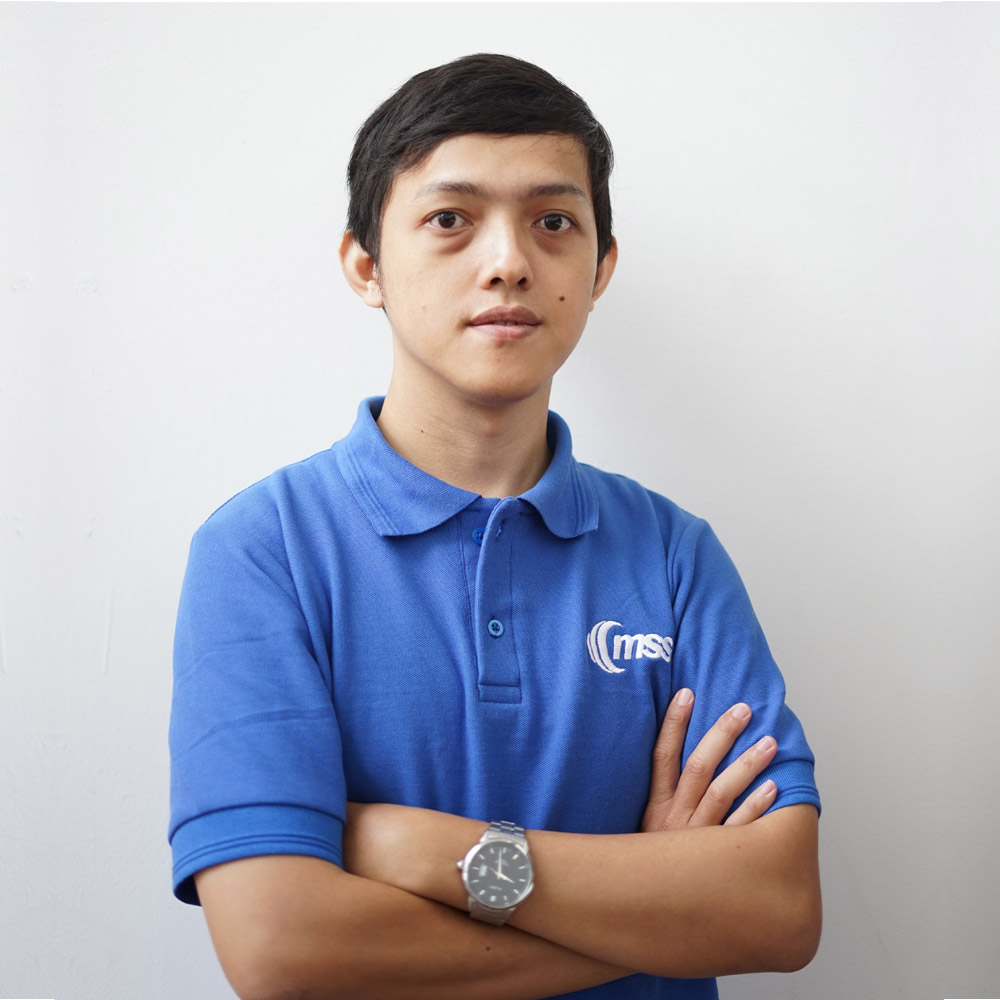
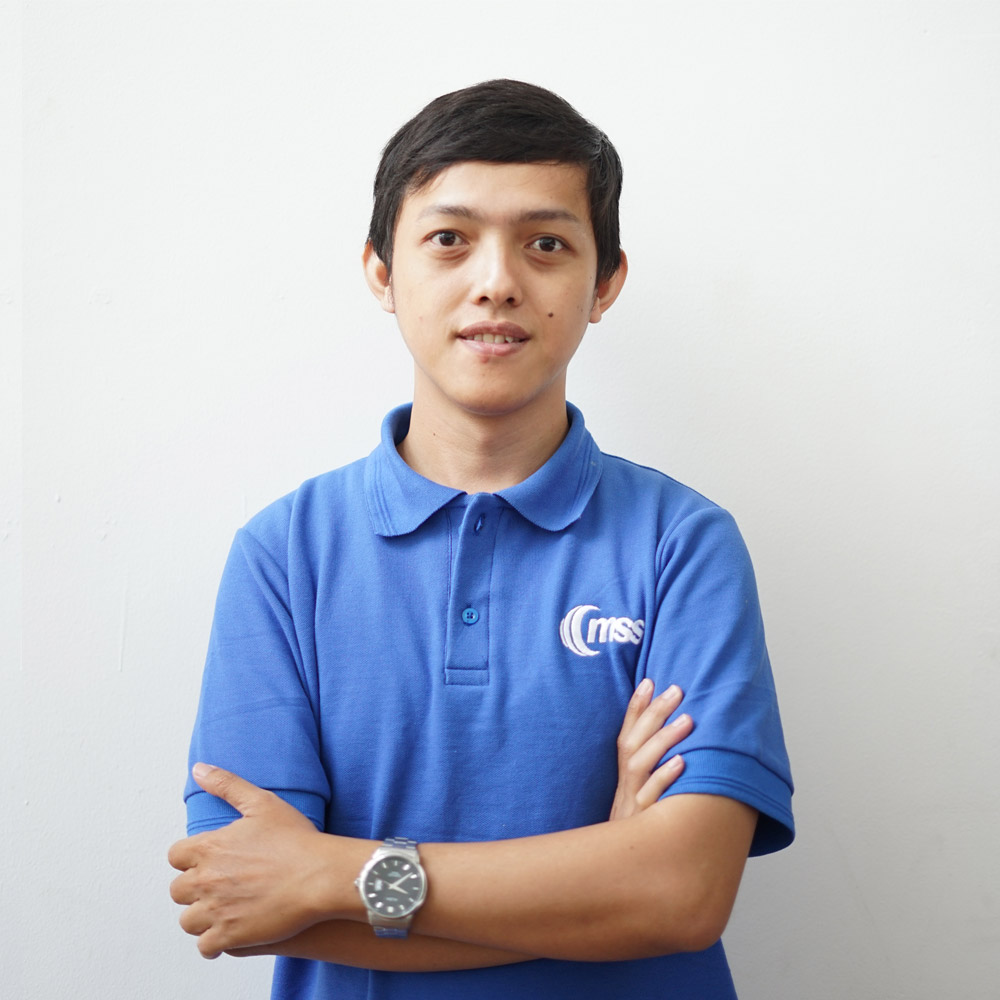
updated: add team foto

Changed region(s): [[0.155, 0.031, 0.837, 1.0], [0.961, 0.837, 1.0, 1.0], [0.0, 0.992, 0.031, 1.0]]

diff --git a/components/home/home.html b/components/home/home.html
@@ -257,7 +257,7 @@
                     <div class="col-xs-12 col-sm-4 col-md-4 i" style="margin-bottom:2em;">
                         <div class="c text-center">
                             <div class="wrap">
-                                <img src="assets/img/teams/team-septi.jpg" alt="#" width="270" height="270" class="img-responsive">
+                                <img src="assets/img/teams/septi.jpg" alt="#" width="270" height="270" class="img-responsive">
                                 <div class="info">
                                     <div class="outer">
                                         <div class="middle">
@@ -329,7 +329,7 @@
                     <div class="col-xs-12 col-sm-4 col-md-4 i" style="margin-bottom:2em;">
                         <div class="c text-center">
                             <div class="wrap">
-                                <img src="assets/img/teams/team-kris.jpg" alt="#" width="270" height="270" class="img-responsive">
+                                <img src="assets/img/teams/kris.jpg" alt="#" width="270" height="270" class="img-responsive">
                                 <div class="info">
                                     <div class="outer">
                                         <div class="middle">
